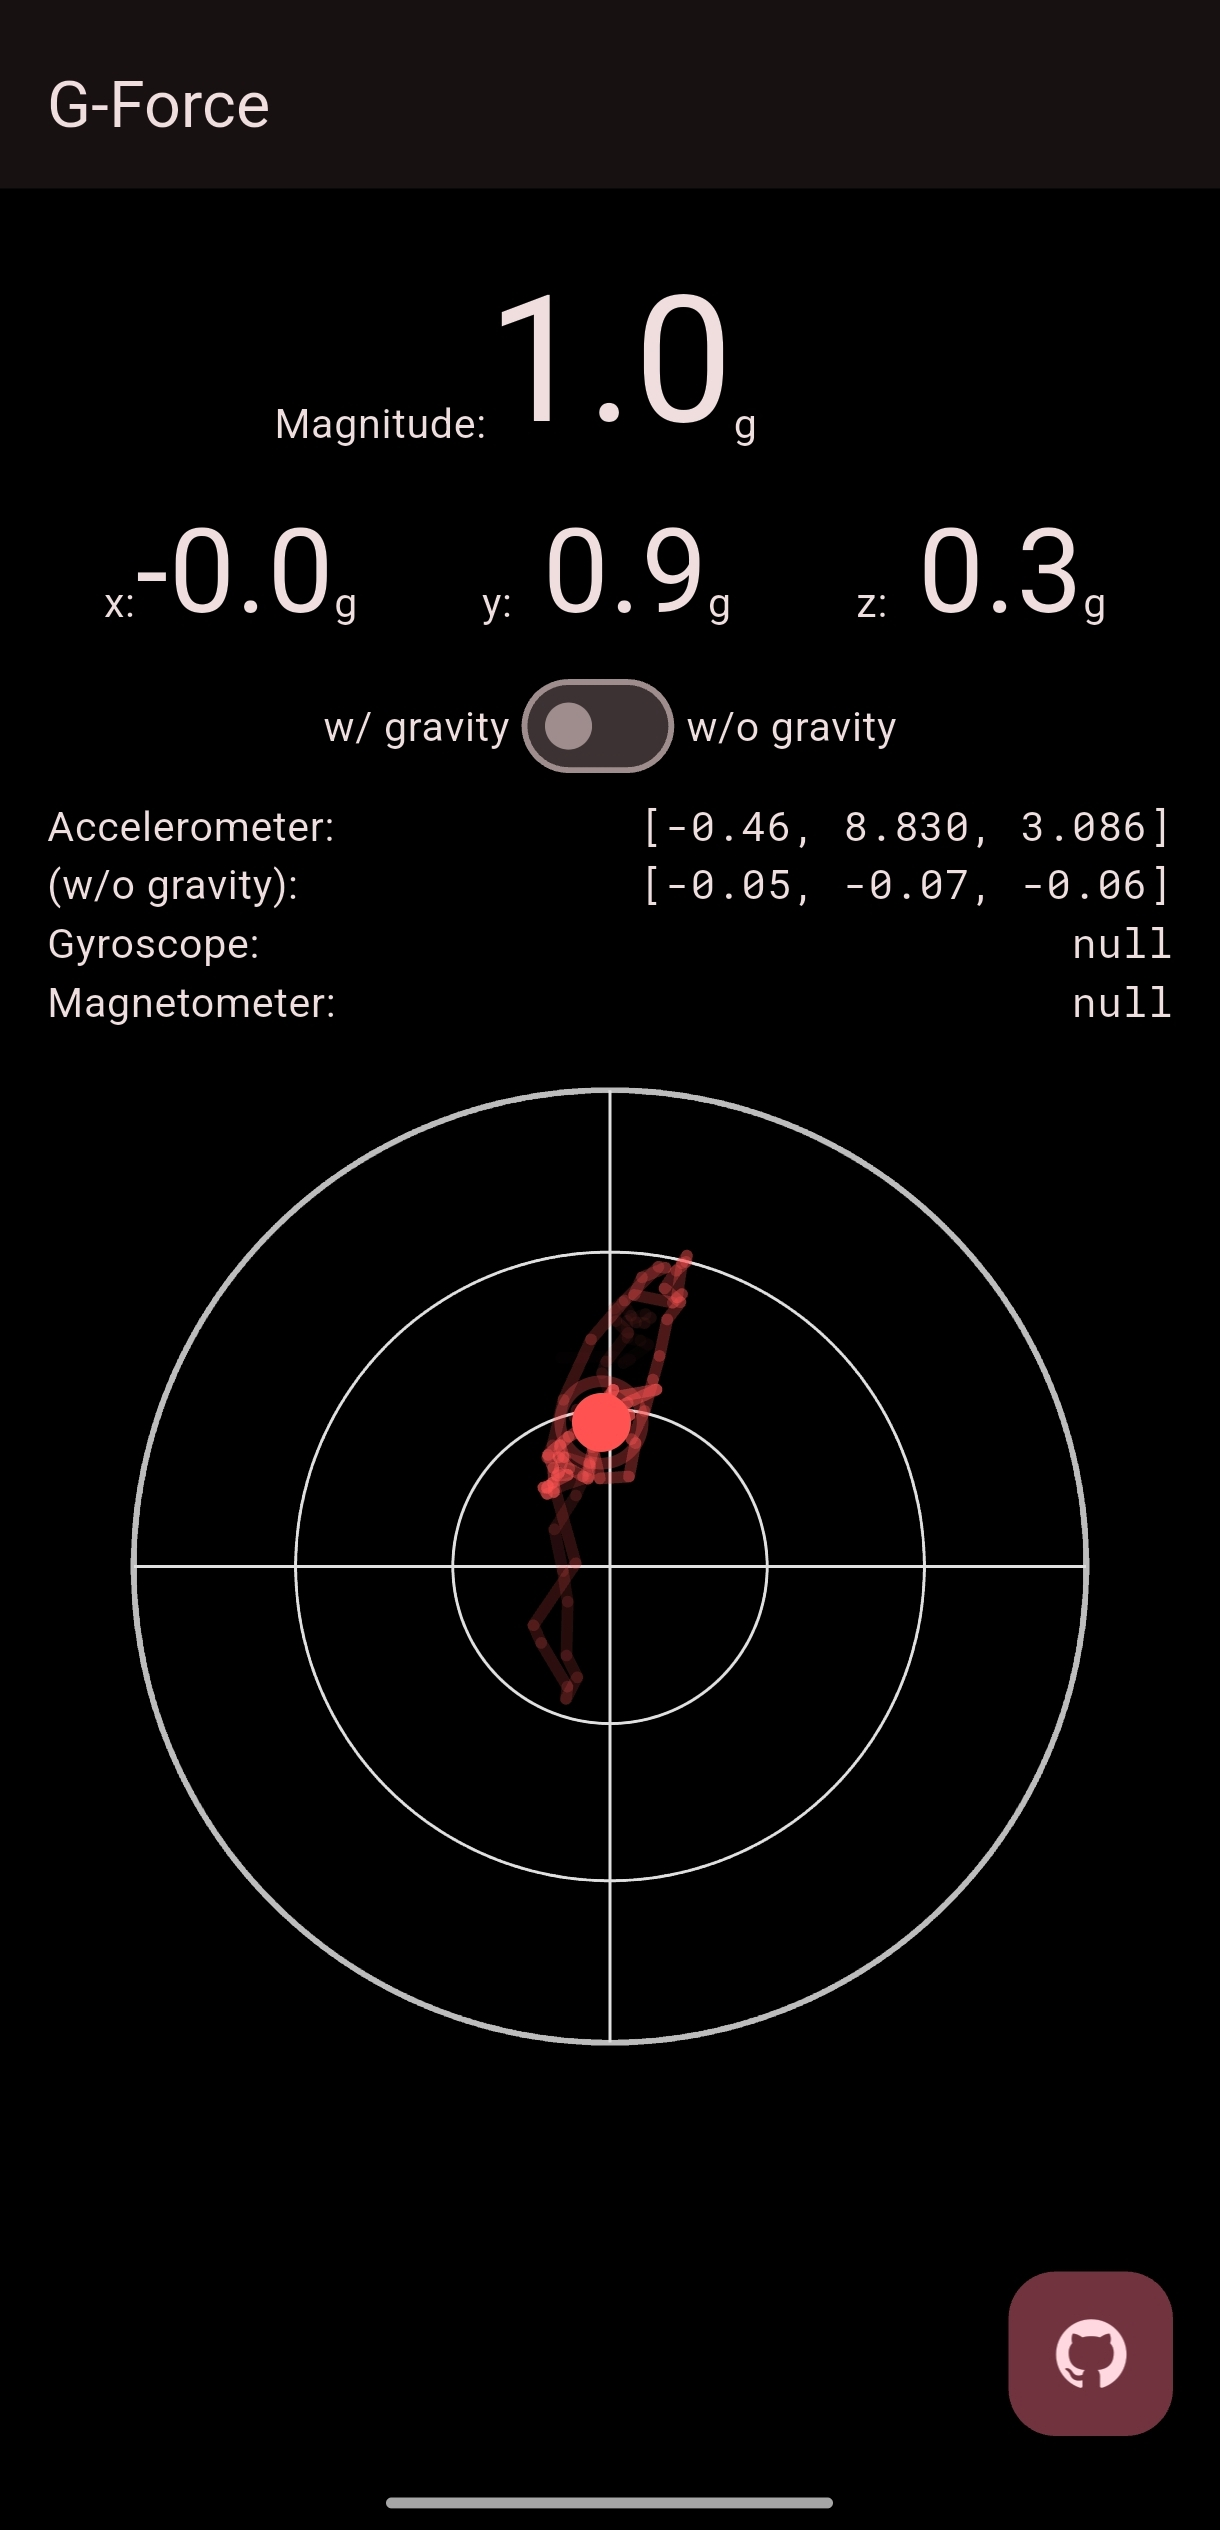
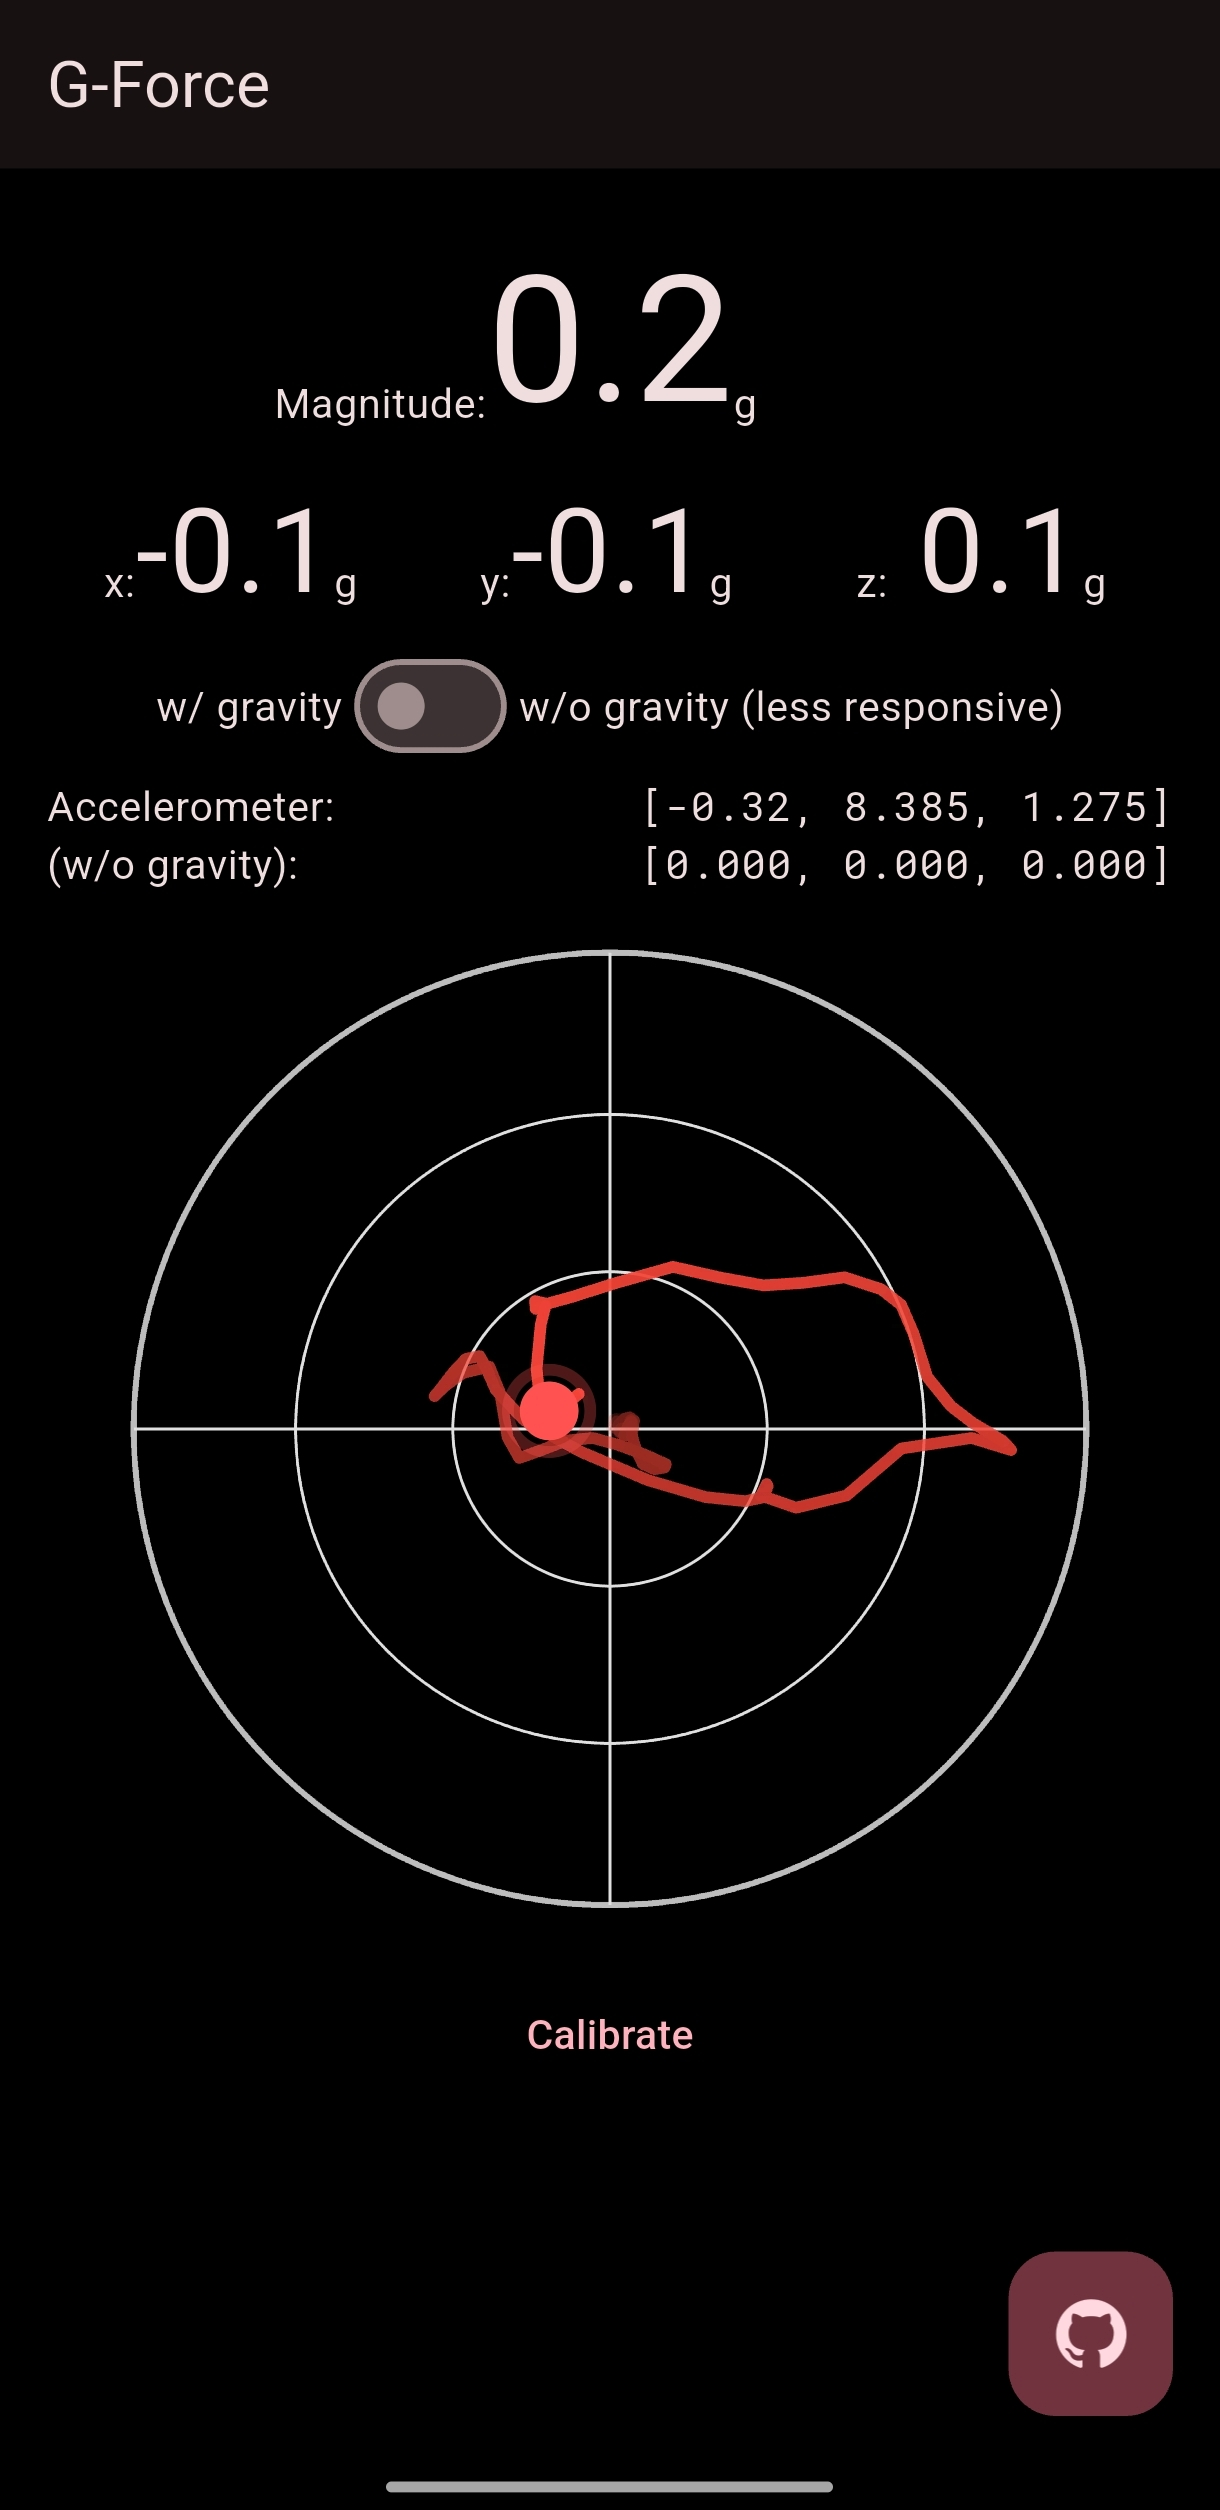
flipped z

diff --git a/lib/main.dart b/lib/main.dart
@@ -82,7 +82,7 @@ class _MyHomePageState extends State<MyHomePage> {
       //(alpha * New) + ((1 - alpha) * Old)
       gForceX = (alpha * rawX) + ((1.0 - alpha) * gForceX);
       gForceY = (alpha * rawY) + ((1.0 - alpha) * gForceY);
-      gForceZ = (alpha * rawZ) + ((1.0 - alpha) * gForceZ);
+      gForceZ = -(alpha * rawZ) + ((1.0 - alpha) * gForceZ);
 
       gForceMagn = sqrt((gForceX * gForceX) + (gForceY * gForceY) + (gForceZ * gForceZ));
 
